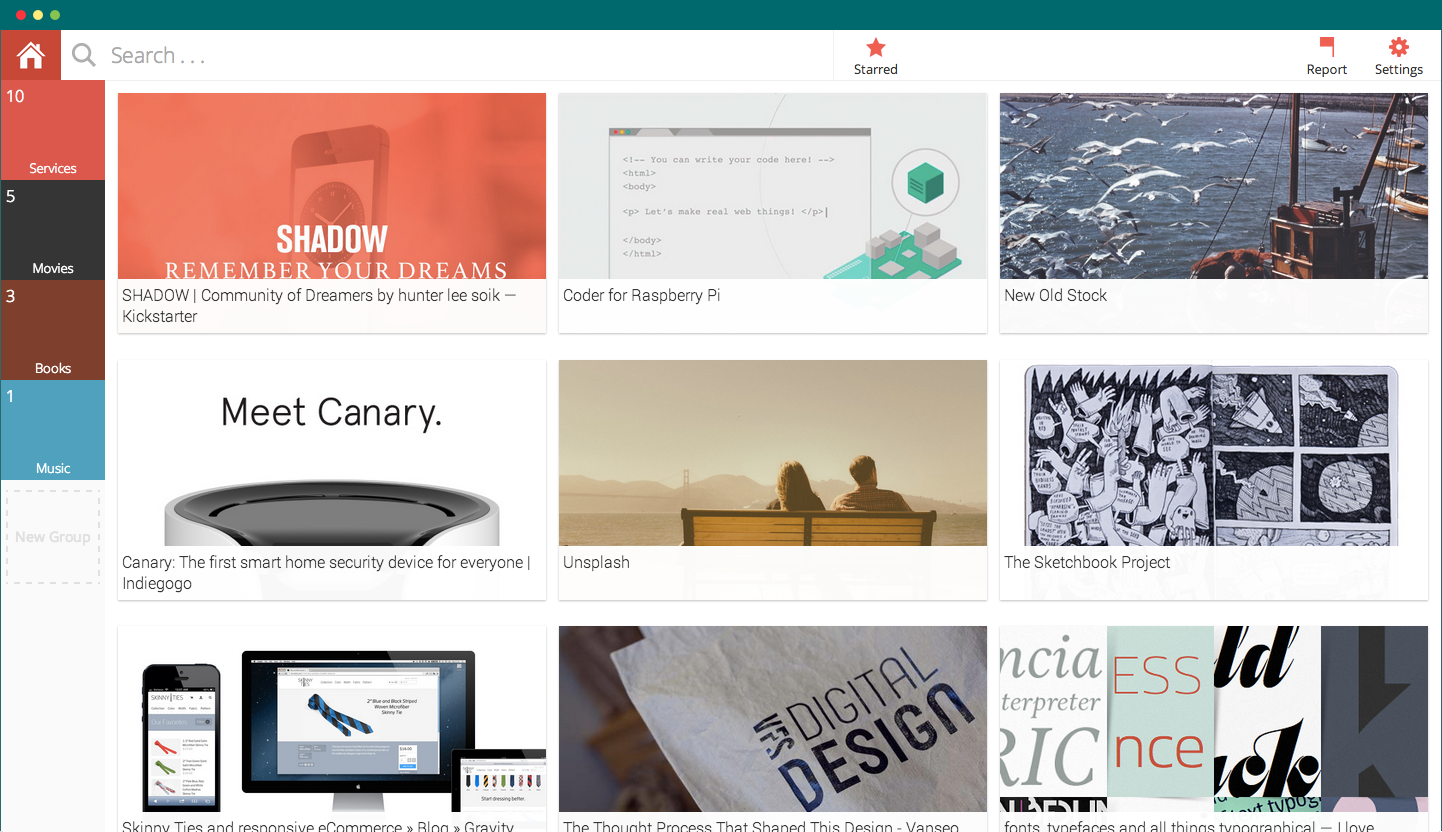
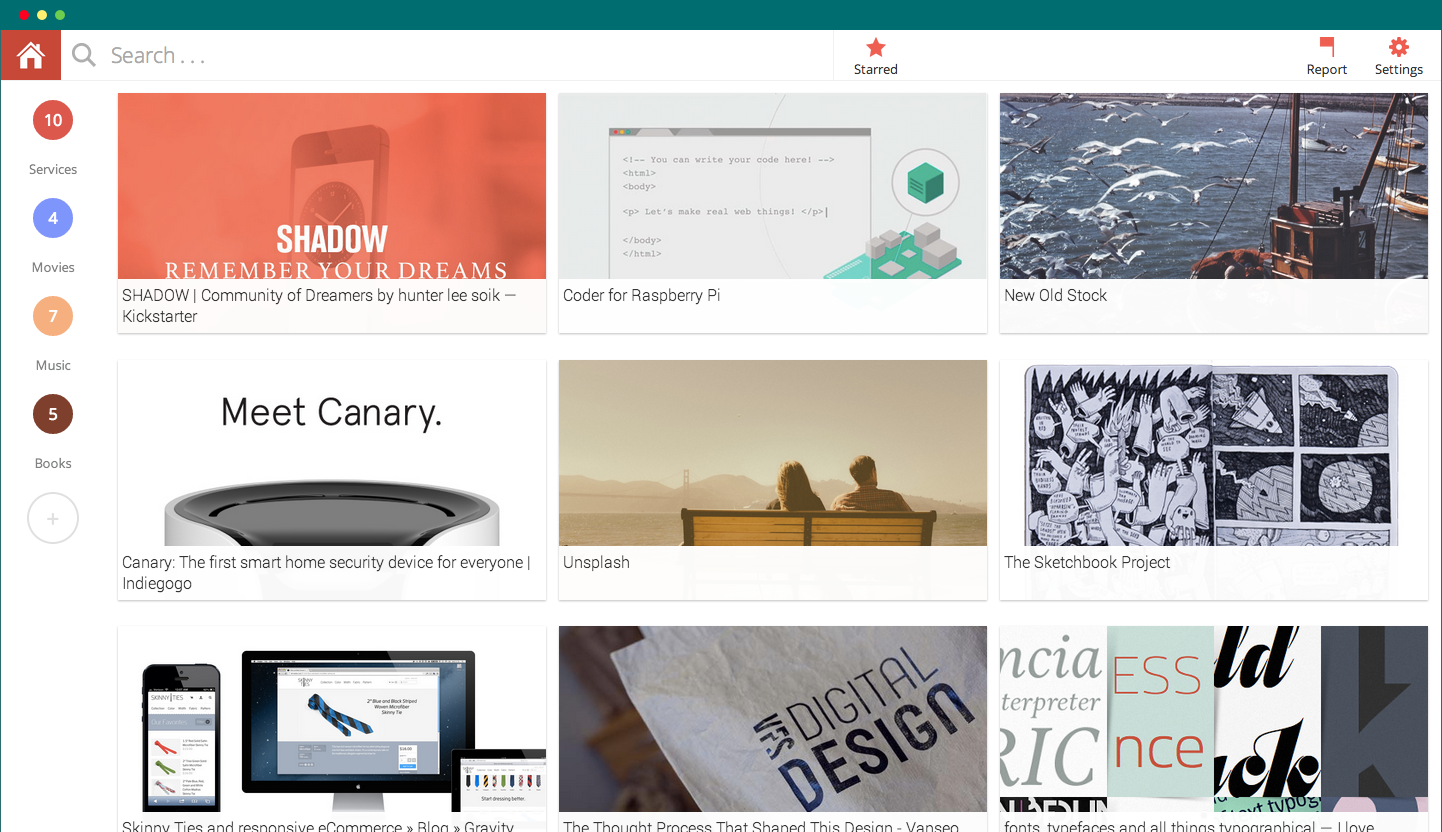
Updated sidebar style

Changed region(s): [[0.0, 0.0938, 0.0936, 0.5938], [0.0, 0.625, 0.0624, 0.6562], [0.0, 0.0, 0.0624, 0.0312]]

diff --git a/static/css/user.css b/static/css/user.css
@@ -23,10 +23,10 @@ a {
 .sidebar {
 	width: 104px;
 	height: 100%;
-	margin-top: 50px;
+	margin-top: 51px;
 	float: left;
 	position: fixed;
-	background: #fafafa;
+	background: #fff;
 	overflow: scroll;
 	z-index: 1;
 	-webkit-transition: 0.3s;
@@ -45,11 +45,9 @@ a {
 }
 .group {
 	width: 100%;
-	height: 100px;
 	position: relative;
-	font-weight: 300;
+	font-weight: 400;
 	color: #fff;
-	cursor: pointer;
 	overflow: hidden;
 }
 .group-box {
@@ -57,17 +55,21 @@ a {
 	transition: 0.3s;
 }
 .group-add {
-	width: 90px;
-	height: 90px;
-	margin: 10px auto 15px;
+	width: 48px;
+	height: 48px;
+	margin: 20px auto 65px;
 	color: #e0e0e0;
 	font-size: 0.9rem;
 	text-align: center;
-	line-height: 90px;
-	border: dashed 2px #e0e0e0;
+	line-height: 48px;
+	border: solid 2px #e0e0e0;
+	border-radius: 48px;
 	cursor: pointer;
 	-webkit-transition: 0.3s;
 	transition: 0.3s;
+}
+.plus {
+	font-size: 1.4rem;
 }
 .group-add:hover {
 	color: #cbcdcd;
@@ -84,8 +86,15 @@ a {
 	float: left;
 }
 .bookmarks-group-count {
-	float: left;
-	padding: 5px;
+	display: block;
+	margin: 20px auto;
+	width: 40px;
+	height: 40px;
+	color: #fff;
+	text-align: center;
+	line-height: 40px;
+	border-radius: 40px;
+	cursor: pointer;
 }
 .bookmarks-group-actions {
 	width: 25%;
@@ -98,22 +107,46 @@ a {
 	transition: 0.3s;
 }
 .bookmarks-group-delete {
-	padding: 0 5px;
-	float: right;
-	font-size: 0.8rem;
-	color: rgba(255, 255, 255, 0.65);
+	width: 20px;
+	height: 20px;
+	margin: 6px 0 0 3px;
+	float: left;
+	border-radius: 20px;
+	font-size: 0.7rem;
+	font-weight: 300;
+	line-height: 20px;
+	text-align: center;
+	background: #FA5757;
+	color: #fff;
+	cursor: pointer;
+	-webkit-transform: translateX(-107px);
+	-ms-transform: translateX(-107px);
+	transform: translateX(-107px);
 	-webkit-transition: 0.3s;
 	transition: 0.3s;
 }
-.bookmarks-group-delete:hover {
-	color: #666;
-	background: rgba(255, 255, 255, 0.8);
+.group:hover .bookmarks-group-delete {
+	-webkit-transform: translateX(0);
+	-ms-transform: translateX(0);
+	transform: translateX(0);
 }
 .toggle-palette {
-	width: 17px;
-	height: 17px;
-	float: right;
-	margin: 32px 4px 0 0;
+	position: absolute;
+	bottom: 20px;
+	left: 3px;
+	width: 20px;
+	height: 20px;
+	cursor: pointer;
+	-webkit-transform: translateX(-107px);
+	-ms-transform: translateX(-107px);
+	transform: translateX(-107px);
+	-webkit-transition: 0.3s;
+	transition: 0.3s;
+}
+.group:hover .toggle-palette {
+	-webkit-transform: translateX(0);
+	-ms-transform: translateX(0);
+	transform: translateX(0);
 }
 .bookmarks-group-color-palette {
 	width: 100%;
@@ -126,10 +159,12 @@ a {
 	height: 50px;
 }
 .bookmarks-group-color {
-	width: 25%;
-	height: 25px;
+	width: 20px;
+	height: 20px;
+	margin: 3px 3px;
 	display: block;
 	float: left;
+	border-radius: 20px;
 }
 .palette-color-red {
 	background: #EB4040;
@@ -147,10 +182,10 @@ a {
 	background: #863825;
 }
 .palette-color-blue {
-	background: #3E45BB;
+	background: #838AFF;
 }
 .palette-color-orange {
-	background: #eb6d20;
+	background: #FFAC79;
 }
 .palette-color-grey {
 	background: #A3A3A3;
@@ -166,19 +201,11 @@ a {
 	transform: scale(0.85);
 }
 .bookmarks-group-name {
+	display: block;
 	width: 100%;
-	height: 17px;
-	padding: 4px 0;
-	position: absolute;
-	bottom: 0;
-	left: 0;
+	color: #818382;
 	font-size: 0.8rem;
 	text-align: center;
-	-webkit-transition: background 0.3s;
-	transition: background 0.3s;
-}
-.group:hover .bookmarks-group-name {
-	background: rgba(255, 255, 255, 0.1)
 }
 .content {
 	width: 100%;
@@ -925,10 +952,6 @@ a {
 [contenteditable="true"]:focus {
 	outline: 0;
 	text-decoration: underline;
-}
-.bookmarks-group-name,
-.bookmarks-group-count {
-	-webkit-backface-visibility: hidden;
 }
 .hidden {
 	display: none;

diff --git a/templates/user/index.html b/templates/user/index.html
@@ -62,7 +62,7 @@
 			</div>
 			<div class="content-header">
 				<div class="home-wrap">
-					<img class="sidebar-show-button" src="{{ STATIC_URL }}images/user/open_sidebar.png" width="42" height="50">
+					<img class="sidebar-show-button" src="{{ STATIC_URL }}images/user/open_sidebar.png" width="30" height="50">
 					<img class="home-button" src="{{ STATIC_URL }}images/user/home.png" width="60" height="50">
 				</div>
 				<div class="header-controls-wrap">
@@ -87,7 +87,7 @@
 				</div>
 				<div class="sidebar">
 						<div class="groups-wrap"></div>
-						<div class="group-add"><span>New Group</span></div>
+						<div class="group-add"><span class="plus">+</span></div>
 				</div>
 				<div class="bookmarks-section">
 					<ul class="bookmarks-list"></ul>
@@ -180,13 +180,9 @@
 
 	<script type="text/template" id="group-template">
 		<div class="group">
-			<div class="bookmarks-group-nav">
-				<span class="bookmarks-group-count"><%- this.model.bookmarkCollections.length %></span>
-			</div>
-			<div class="bookmarks-group-actions">
-				<span class="bookmarks-group-delete">X</span>
-				<img class="toggle-palette" src="{{ STATIC_URL }}images/user/toggle_palette.png" width="17" height="17">
-			</div>
+			<span class="bookmarks-group-delete">X</span>
+			<span class="bookmarks-group-count"><%- this.model.bookmarkCollections.length %></span>
+			<img class="toggle-palette" src="{{ STATIC_URL }}images/user/toggle_palette.png" width="20" height="20">
 			<span class="bookmarks-group-name" contenteditable="true"><%= title %></span>
 		</div>
 		<div class="bookmarks-group-color-palette">

diff --git a/static/js/views/SidebarView.js b/static/js/views/SidebarView.js
@@ -8,7 +8,7 @@ var SidebarView = Backbone.View.extend({
 
 		this.$groupsWrap = this.$('.groups-wrap');
 
-		colors = ['#EB4040', '#4ABB3E', '#343534', '#33A3C0', '#863825', '#3E45BB', '#eb6d20', '#A3A3A3']
+		colors = ['#EB4040', '#79D55B', '#343534', '#33A3C0', '#863825', '#838AFF', '#FFAC79', '#A3A3A3']
 	},
 
 	events: {
@@ -56,7 +56,7 @@ var BookmarkCollectionView = Backbone.View.extend({
 	},
 
 	events: {
-		'click .bookmarks-group-nav': 'navigateToGroup',
+		'click .bookmarks-group-count': 'navigateToGroup',
 		'focus .bookmarks-group-name': 'nameFocus',
 		'keypress .bookmarks-group-name': 'onEnter',
 		'blur .bookmarks-group-name': 'updateTitle',
@@ -149,7 +149,7 @@ var BookmarkCollectionView = Backbone.View.extend({
 		// Since the colors in DOM are rgb we have to use alternative way of getting and setting the new color.
 		newBgColor = colors[n]
 
-		this.$el.css('background-color', newBgColor);
+		this.$('.bookmarks-group-count').css('background-color', newBgColor);
 		this.model.save('background', newBgColor, tokenHeader);
 	},
 
@@ -189,7 +189,7 @@ var BookmarkCollectionView = Backbone.View.extend({
 	render: function(bookmarks_collection) {
 		this.$el.html(this.template(this.model.toJSON()));
 		var background_color = this.model.get('background');
-		this.$el.css('background-color', background_color);
+		this.$('.bookmarks-group-count').css('background-color', background_color);
 		return this;
 	}
 
